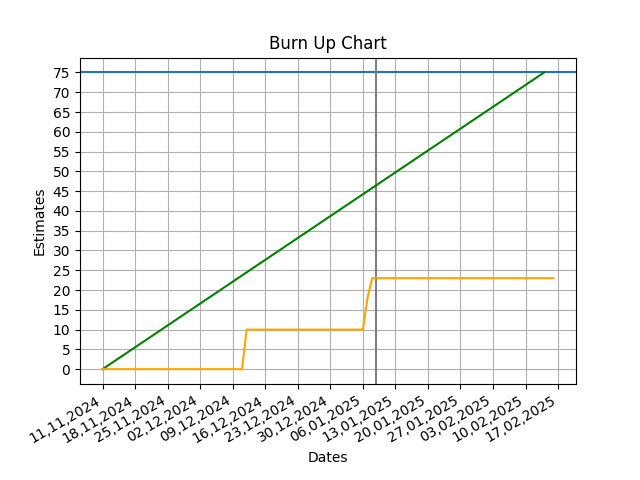
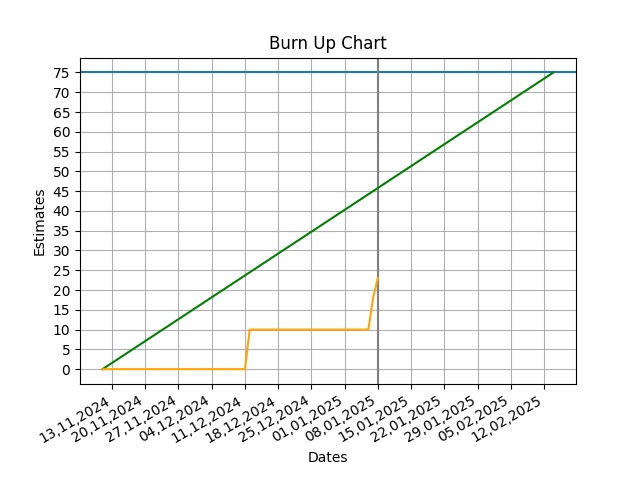
Updatet the BurnupPlot Creation so that the done estimates are omly shown to the current date.

diff --git a/Burn-Up-Chart/CreateBurnUpChart.py b/Burn-Up-Chart/CreateBurnUpChart.py
@@ -8,15 +8,19 @@ max_estimate = 75  #Current total estimate
 
 with open("Burn-Up-Chart/log.csv", "r") as file:
     dates = []      # will hold the Dates of the log.csv
+    allDates = []   # will hold all the dates from the log.csv
     estimates = []  # will hold the estimates done at the corresponding date
 
     # Load the dates and estimates from the log.csv
     csvFile = csv.reader(file)
     current_estimate = 0
     for line in csvFile:
-        dates.append(datetime.datetime.strptime(line[0], '%Y-%m-%d').date())
-        current_estimate += int(line[1])
-        estimates.append(current_estimate)
+        date = datetime.datetime.strptime(line[0], '%Y-%m-%d').date()
+        allDates.append(date)
+        if (date <= datetime.datetime.today().date()):
+            dates.append(date)
+            current_estimate += int(line[1])
+            estimates.append(current_estimate)
 
 
     date_pos = np.linspace(1, len(dates), len(dates))   # linear array of all dates for ploting.
@@ -28,7 +32,7 @@ with open("Burn-Up-Chart/log.csv", "r") as file:
 
     plt.yticks(np.arange(0, max_estimate + 5, step = 5))
     plt.axhline(max_estimate) # Plots the total estimate line (Goal line)
-    plt.axvline(datetime.datetime.today(), linestyle = '-', color = 'gray')
+    plt.axvline(datetime.datetime.today().date(), linestyle = '-', color = 'gray')
 
     plt.grid(True)
 
@@ -36,7 +40,7 @@ with open("Burn-Up-Chart/log.csv", "r") as file:
     plt.xlabel("Dates")
     plt.ylabel("Estimates")
 
-    plt.plot([dates[0], dates[len(dates) - 3]], [0, max_estimate], linestyle='-', color='green') #-3 sets the last date to the last Friday
+    plt.plot([allDates[0], allDates[len(allDates) - 3]], [0, max_estimate], linestyle='-', color='green') #-3 sets the last date to the last Friday
     plt.plot(dates, estimates, color='orange') # Plors Dots for the done estimates
     plt.savefig("Burn-Up-Chart/Burnup-plot.png")
 